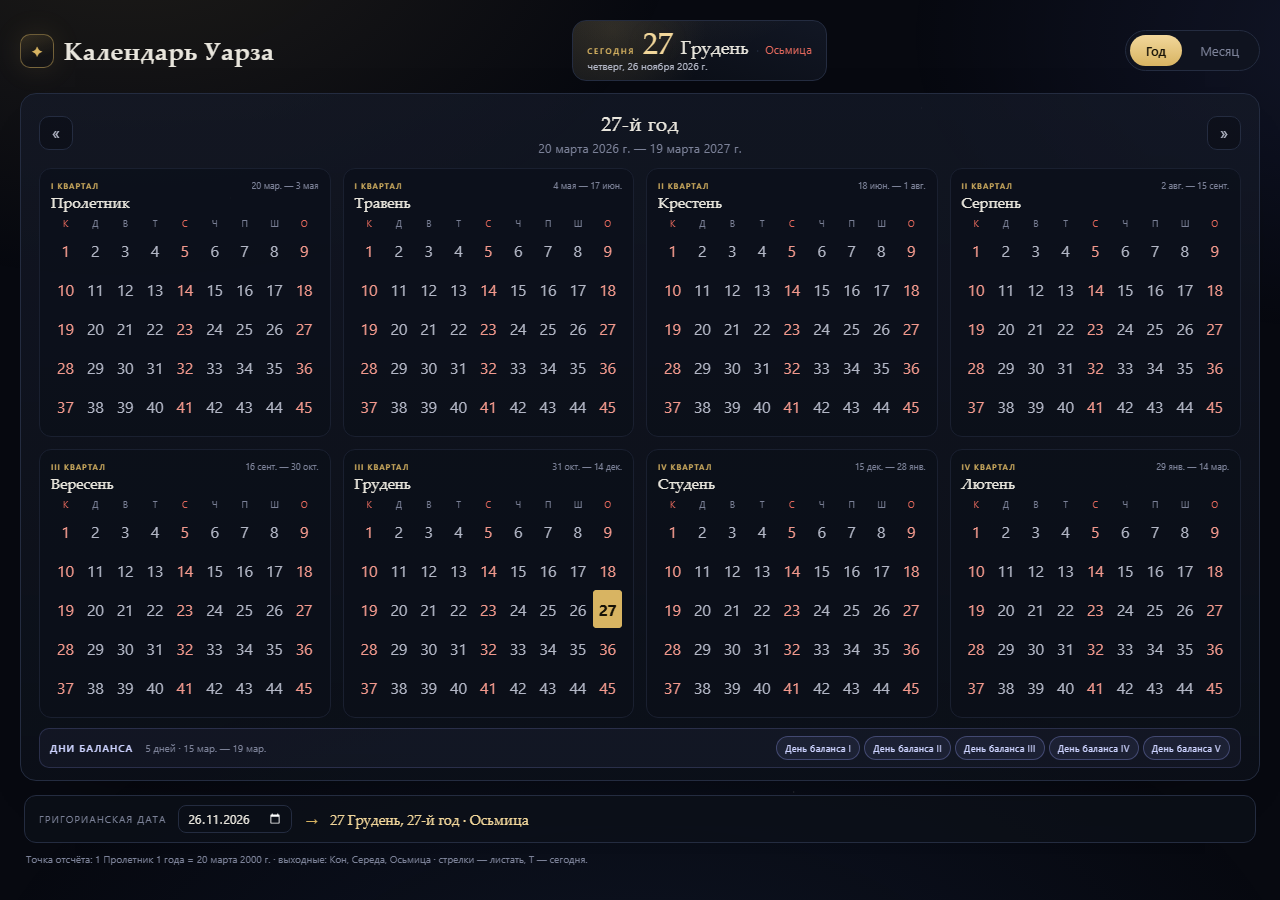
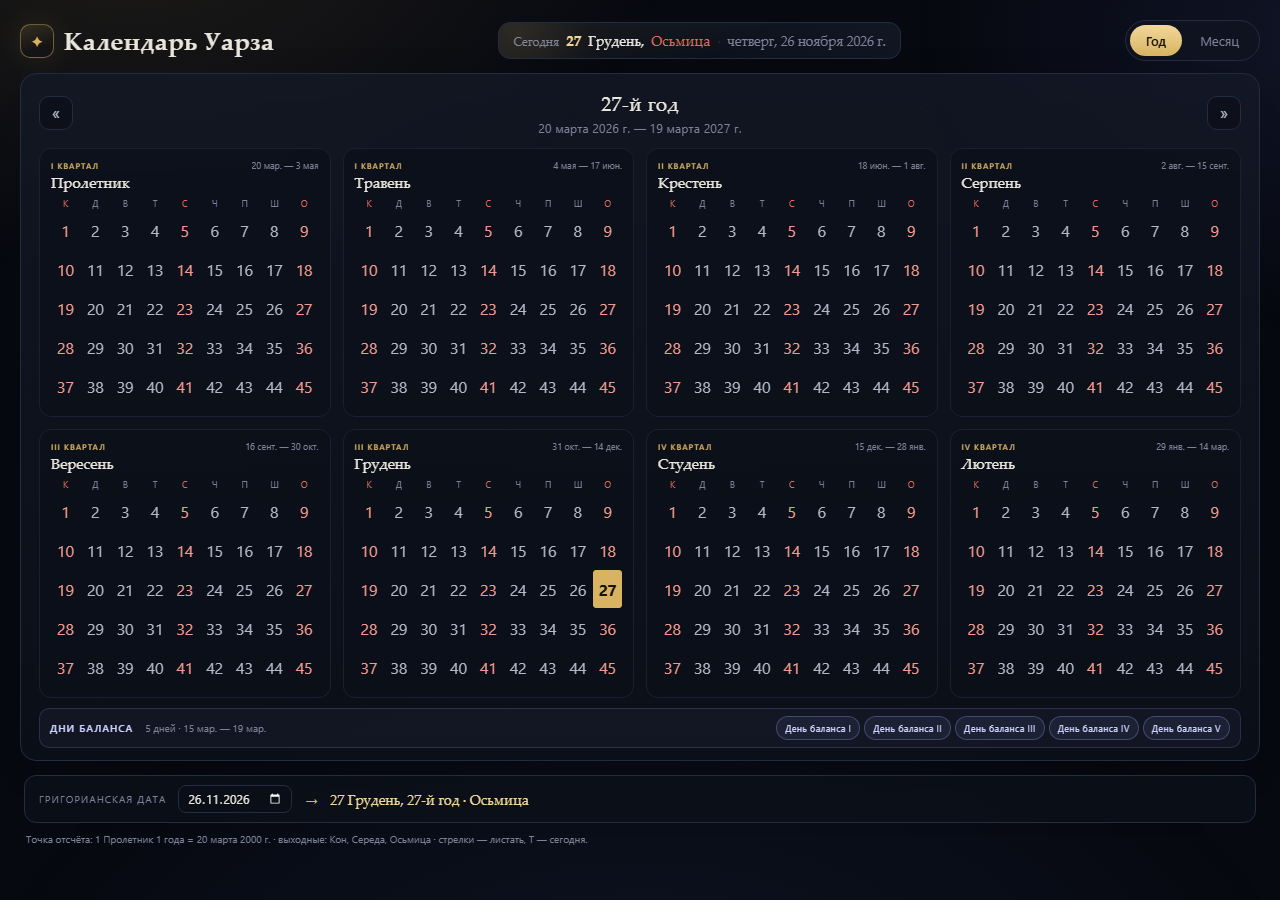
Плашка сегодня — одна строка, единый шрифт

diff --git a/styles.css b/styles.css
@@ -160,12 +160,13 @@ h1 {
 .today {
   position: relative;
   display: flex;
-  flex-direction: column;
-  gap: 1px;
+  align-items: baseline;
+  flex-wrap: wrap;
+  gap: 3px 7px;
   min-width: 0;
-  padding: 7px 14px;
+  padding: 8px 14px;
   border: 1px solid var(--line);
-  border-radius: 14px;
+  border-radius: 12px;
   background:
     linear-gradient(155deg, rgba(216, 180, 98, 0.08), transparent 60%),
     linear-gradient(200deg, #121724, #0b0f18 70%);
@@ -175,62 +176,51 @@ h1 {
 .today::before {
   content: "";
   position: absolute;
-  top: -90px;
+  top: -70px;
   left: -60px;
-  width: 200px;
-  height: 200px;
-  background: radial-gradient(circle, rgba(216, 180, 98, 0.12), transparent 66%);
+  width: 160px;
+  height: 160px;
+  background: radial-gradient(circle, rgba(216, 180, 98, 0.10), transparent 66%);
   pointer-events: none;
 }
 
-.today-main {
-  position: relative;
-  display: flex;
-  align-items: baseline;
-  flex-wrap: wrap;
-  gap: 1px 8px;
-  min-width: 0;
-}
-
 .today-kicker {
-  color: var(--gold);
-  font-size: 8px;
-  font-weight: 600;
-  letter-spacing: 0.22em;
-  text-transform: uppercase;
+  color: var(--muted);
+  font-family: var(--serif);
+  font-size: 12px;
+  letter-spacing: 0;
 }
 
 .today-day {
   font-family: var(--serif);
-  font-size: 30px;
-  line-height: 1;
+  font-size: 15px;
+  font-weight: 600;
+  line-height: 1.1;
   color: var(--gold-2);
   font-variant-numeric: tabular-nums;
-  text-shadow: 0 0 24px rgba(216, 180, 98, 0.18);
 }
 
 .today-month {
   font-family: var(--serif);
-  font-size: 18px;
-  line-height: 1.05;
-  color: var(--ink);
-}
-
-.today-month.is-long {
   font-size: 14px;
-}
-
-.today-weekday {
-  color: var(--gold-2);
-  font-size: 11px;
-  letter-spacing: 0.02em;
+  line-height: 1.1;
+  color: var(--ink);
   white-space: nowrap;
 }
 
-.today-weekday::before {
-  content: "·";
-  margin-right: 6px;
-  color: var(--line);
+.today-month::after {
+  content: ",";
+}
+
+.today-month.is-long {
+  font-size: 13px;
+}
+
+.today-weekday {
+  font-family: var(--serif);
+  font-size: 14px;
+  color: var(--gold-2);
+  white-space: nowrap;
 }
 
 .today-weekday.is-off {
@@ -241,19 +231,17 @@ h1 {
   color: var(--red);
 }
 
-.today-sub {
-  position: relative;
-  display: flex;
-  align-items: baseline;
-  flex-wrap: wrap;
-  gap: 4px 10px;
+.today-gregorian {
+  font-family: var(--serif);
+  font-size: 13.5px;
   color: var(--muted);
-  font-size: 10px;
+  white-space: nowrap;
 }
 
-.today-gregorian {
-  color: var(--ink-dim);
-  white-space: nowrap;
+.today-gregorian::before {
+  content: "·";
+  margin-right: 7px;
+  color: var(--line);
 }
 
 .link {
@@ -896,10 +884,6 @@ button.mini-cell:hover {
 
   .today {
     padding: 6px 12px;
-  }
-
-  .today-day {
-    font-size: 26px;
   }
 
   .cell {

diff --git a/index.html b/index.html
@@ -22,16 +22,12 @@
       </div>
 
       <section class="today" aria-live="polite">
-        <div class="today-main">
-          <span class="today-kicker" id="hero-kicker">Сегодня</span>
-          <span class="today-day" id="hero-day">—</span>
-          <span class="today-month" id="hero-month">—</span>
-          <span class="today-weekday" id="hero-weekday">—</span>
-        </div>
-        <div class="today-sub">
-          <span class="today-gregorian" id="hero-gregorian">—</span>
-          <button type="button" class="link" id="back-today" hidden>вернуться к сегодня</button>
-        </div>
+        <span class="today-kicker" id="hero-kicker">Сегодня</span>
+        <span class="today-day" id="hero-day">—</span>
+        <span class="today-month" id="hero-month">—</span>
+        <span class="today-weekday" id="hero-weekday">—</span>
+        <span class="today-gregorian" id="hero-gregorian">—</span>
+        <button type="button" class="link" id="back-today" hidden>вернуться к сегодня</button>
       </section>
 
       <div class="view-switch" role="tablist" aria-label="Вид календаря">
